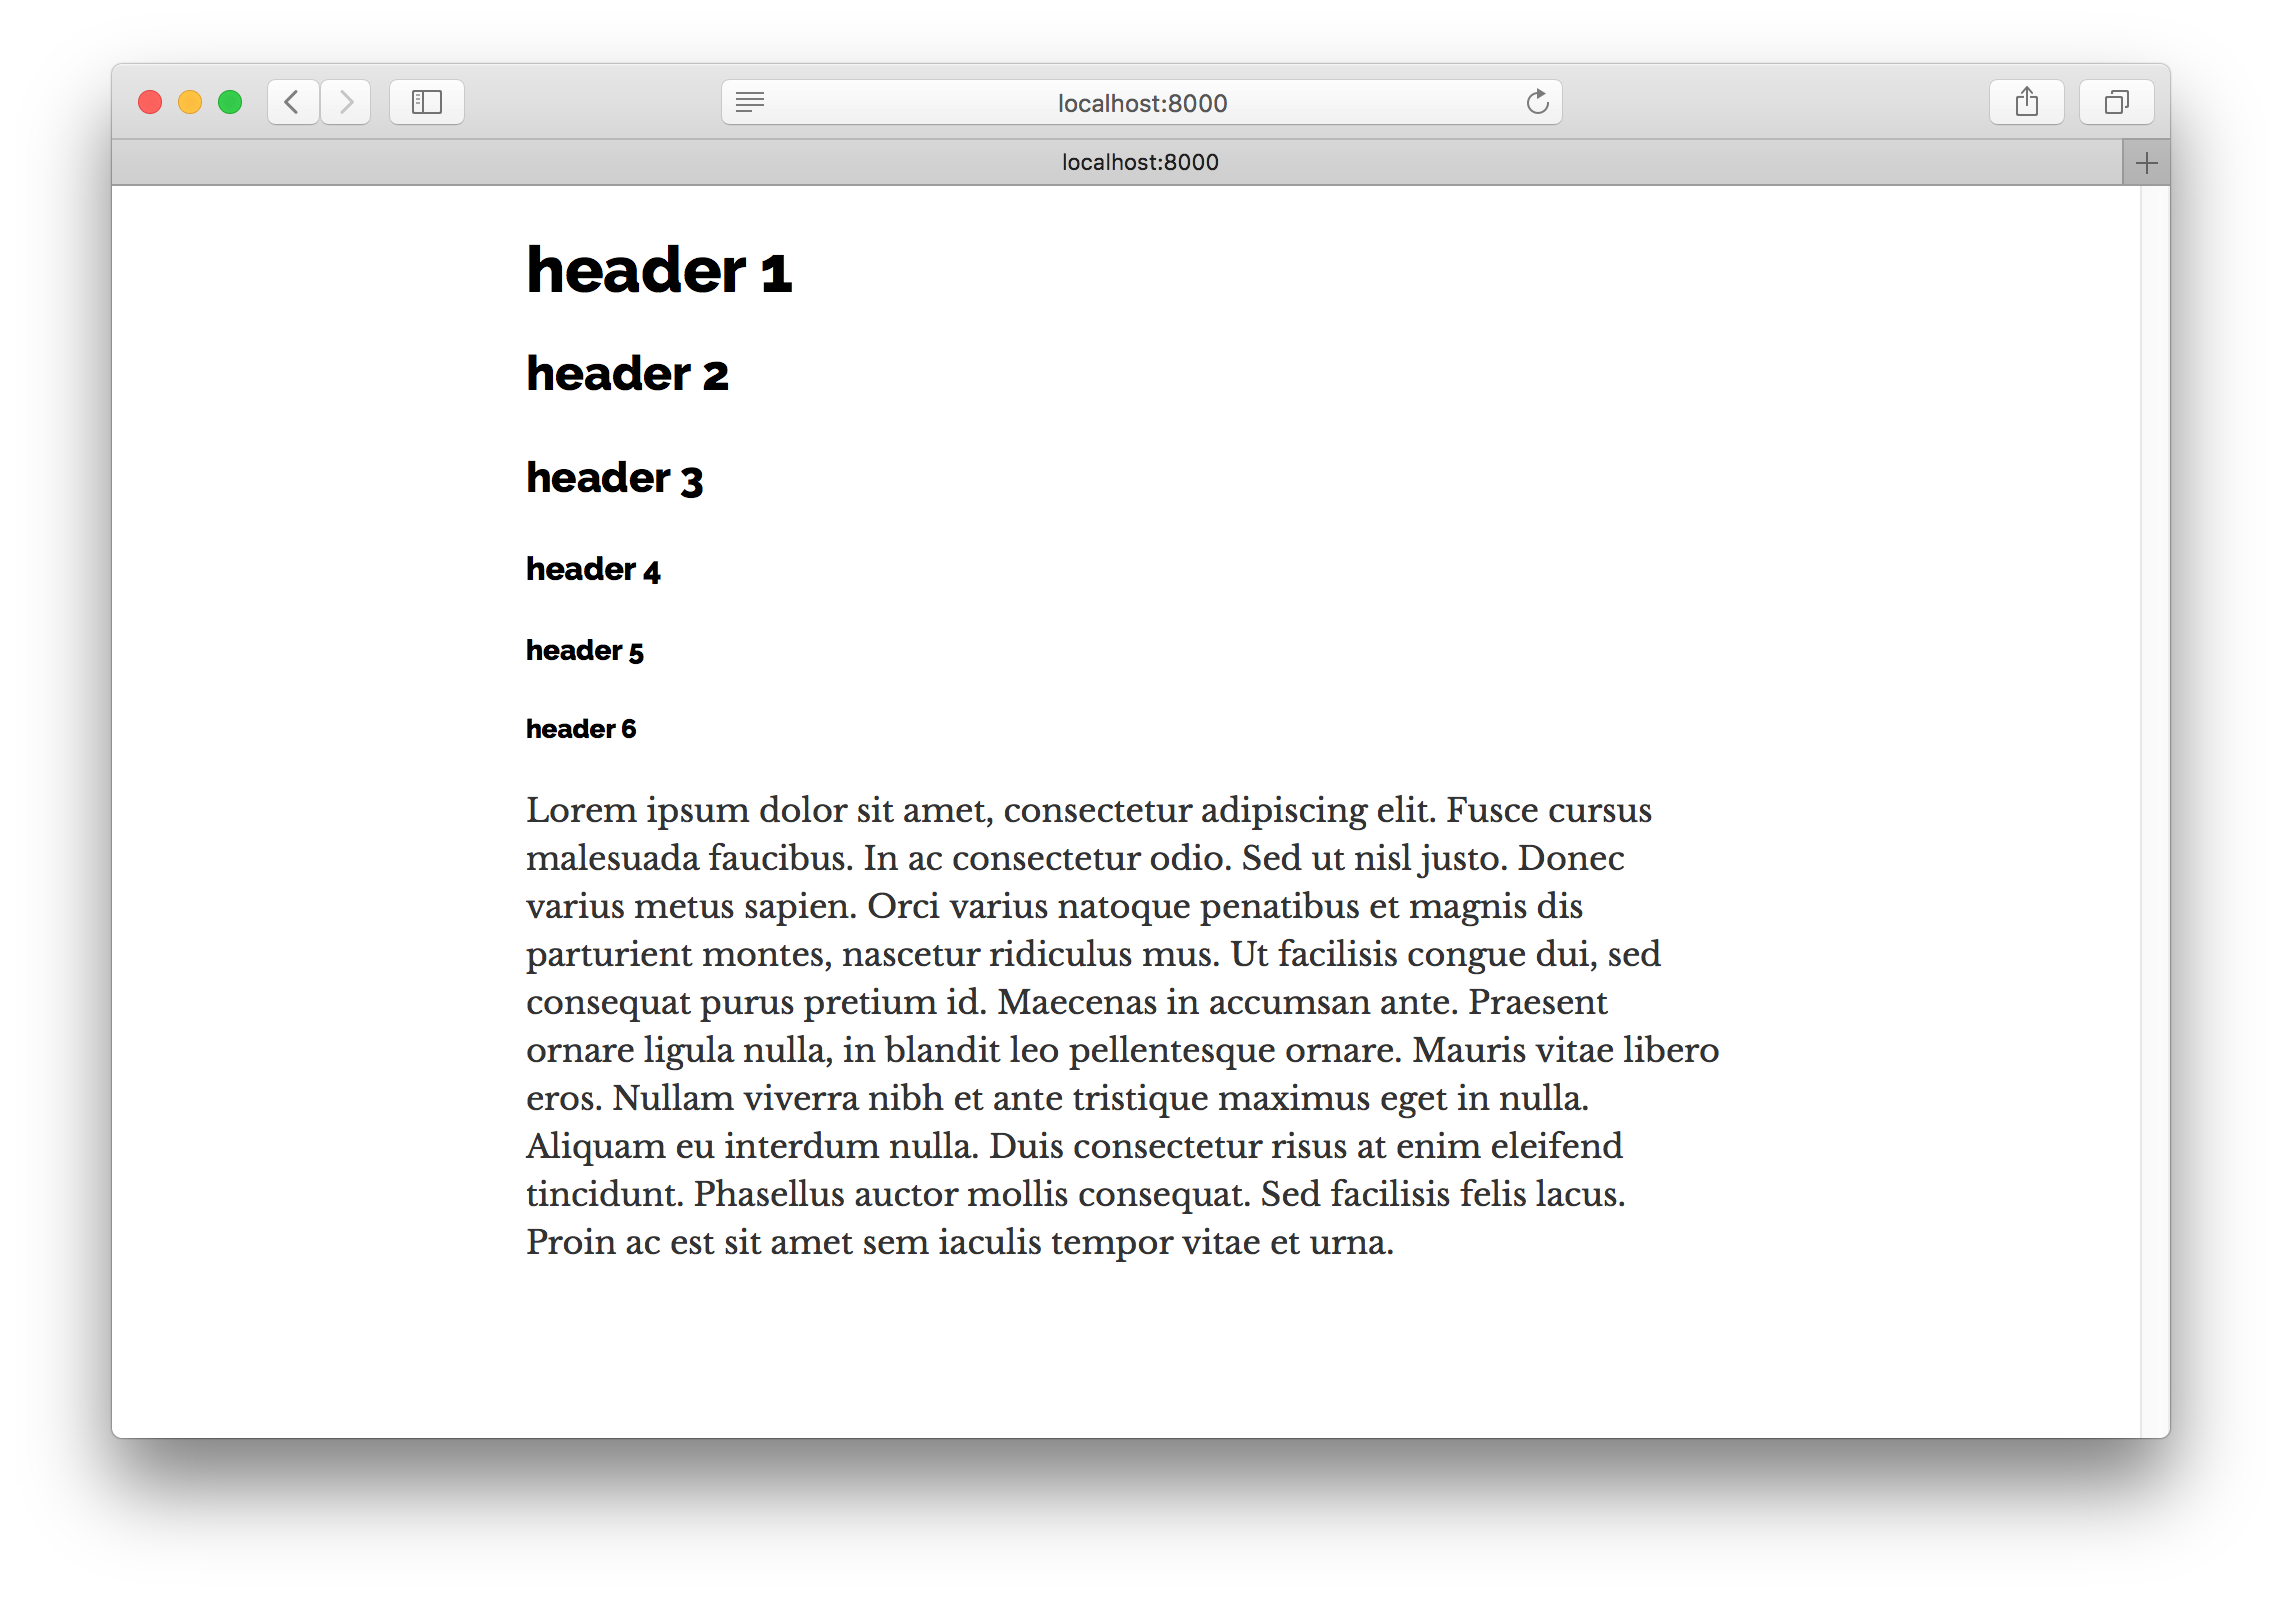
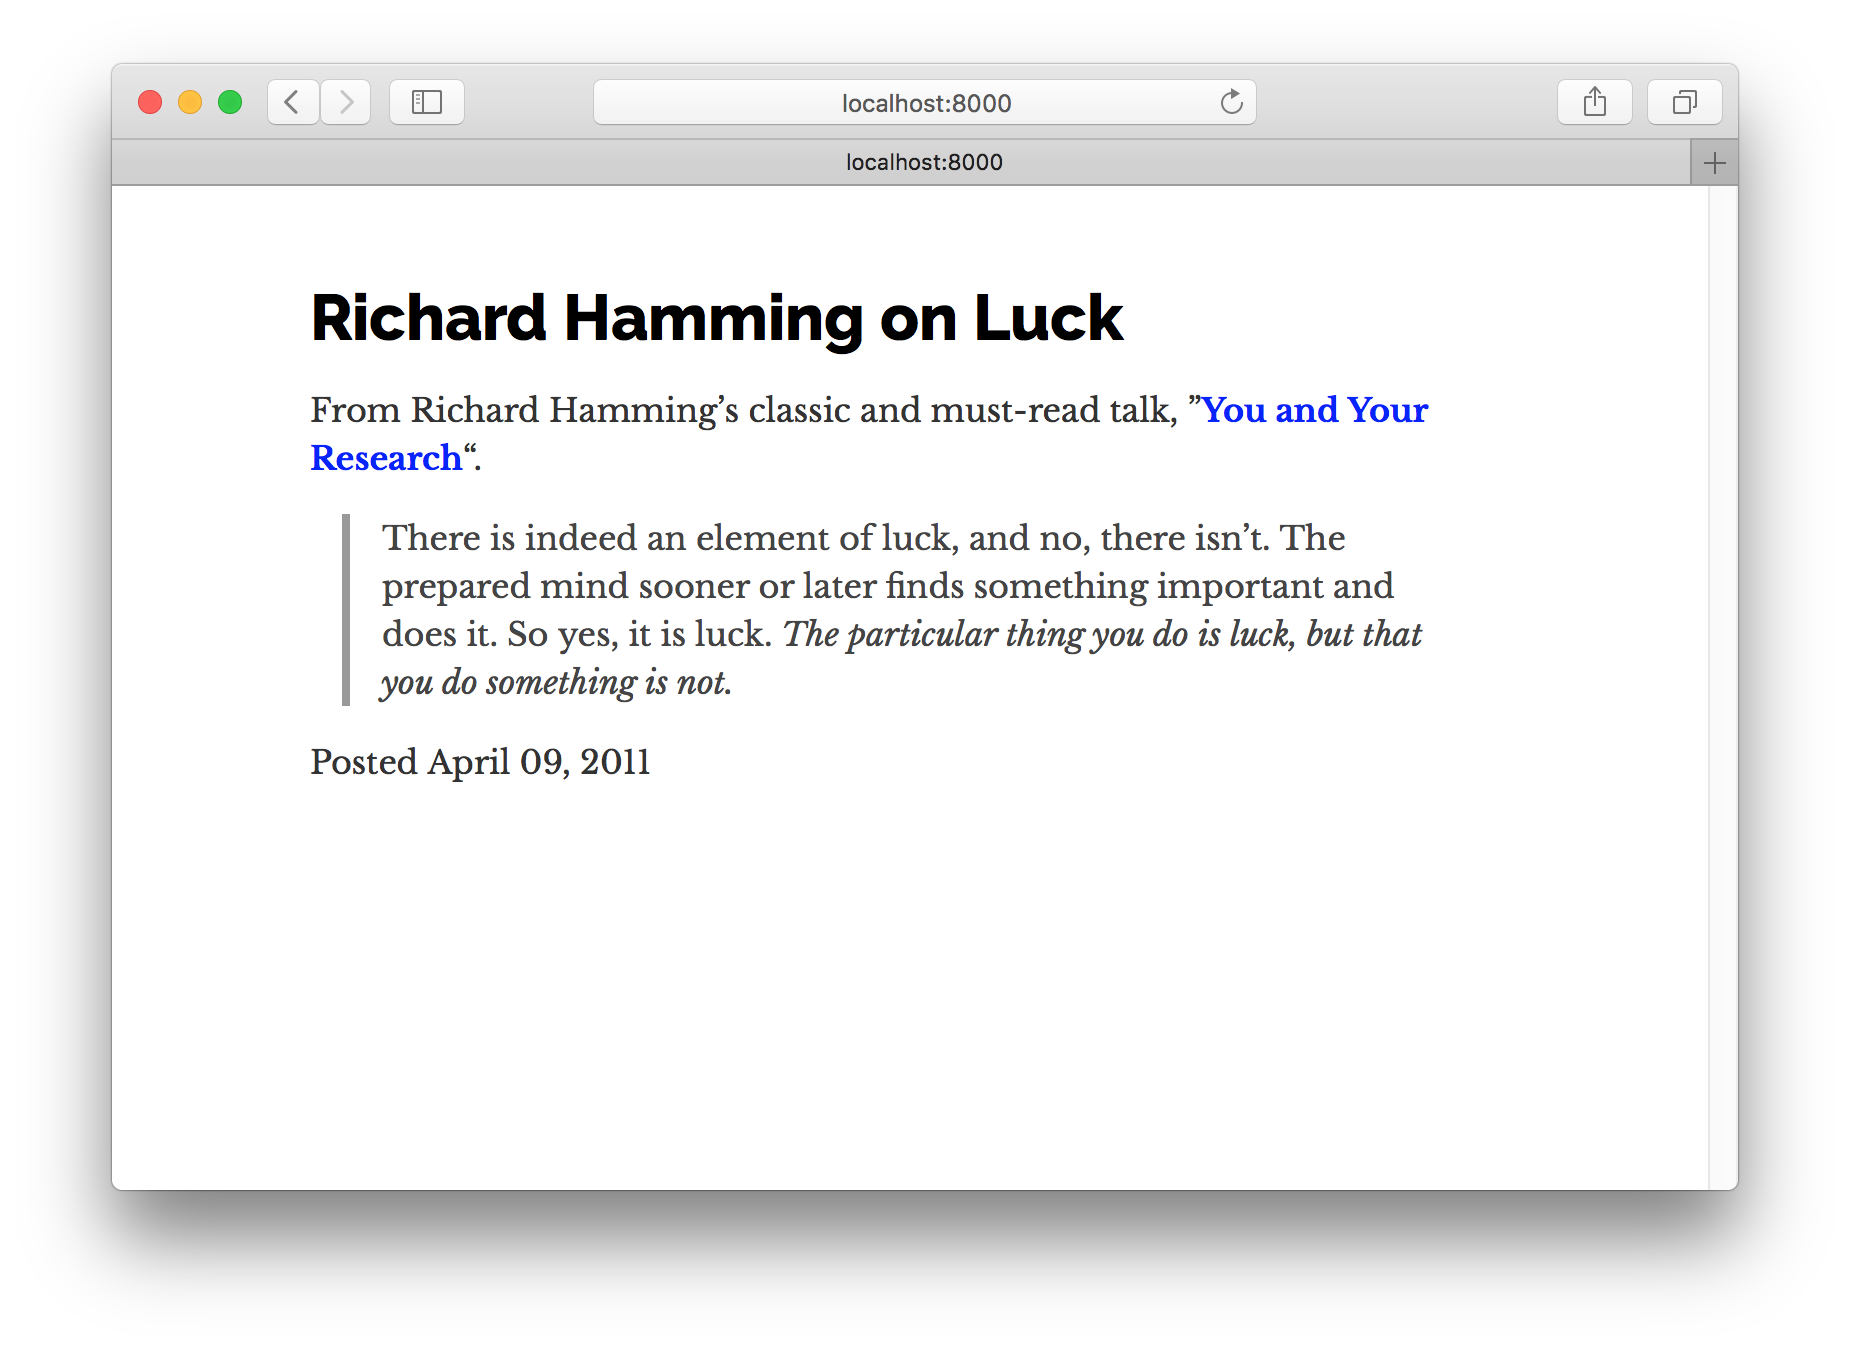
Updates to Tutorial 2 (#1683)

Changed region(s): [[0.1541, 0.2178, 0.7703, 0.8089], [0.0308, 0.0311, 0.9551, 0.9333]]

diff --git a/docs/tutorial/part-two/index.md b/docs/tutorial/part-two/index.md
@@ -127,30 +127,32 @@ import React from "react"
 
 export default () =>
   <div>
-    <h1>header 1</h1>
-    <h2>header 2</h2>
-    <h3>header 3</h3>
-    <h4>header 4</h4>
-    <h5>header 5</h5>
-    <h6>header 6</h6>
-    <p>
-      Lorem ipsum dolor sit amet, consectetur adipiscing elit. Fusce cursus
-      malesuada faucibus. In ac consectetur odio. Sed ut nisl justo. Donec
-      varius metus sapien. Orci varius natoque penatibus et magnis dis
-      parturient montes, nascetur ridiculus mus. Ut facilisis congue dui, sed
-      consequat purus pretium id. Maecenas in accumsan ante. Praesent ornare
-      ligula nulla, in blandit leo pellentesque ornare. Mauris vitae libero
-      eros. Nullam viverra nibh et ante tristique maximus eget in nulla. Aliquam
-      eu interdum nulla. Duis consectetur risus at enim eleifend tincidunt.
-      Phasellus auctor mollis consequat. Sed facilisis felis lacus. Proin ac est
-      sit amet sem iaculis tempor vitae et urna.
-    </p>
+    <h1>Richard Hamming on Luck</h1>
+    <div>
+      <p>
+        From Richard Hamming’s classic and must-read talk, ”<a href="http://www.cs.virginia.edu/~robins/YouAndYourResearch.html">
+          You and Your Research
+        </a>“.
+      </p>
+      <blockquote>
+        <p>
+          There is indeed an element of luck, and no, there isn’t. The prepared
+          mind sooner or later finds something important and does it. So yes, it
+          is luck.{" "}
+          <em>
+            The particular thing you do is luck, but that you do something is
+            not.
+          </em>
+        </p>
+      </blockquote>
+    </div>
+    <p>Posted April 09, 2011</p>
   </div>
 ```
 
 Your site should now look like this:
 
-![basic-typograpy](basic-typograpy.png)
+![typography-not-centered](typography-not-centered.png)
 
 Let's make a quick improvement. Many sites have a single column of text centered in the middle of the page. To create this, add the following styles to the `<div>` in `src/pages/index.js`.
 
@@ -158,29 +160,31 @@ Let's make a quick improvement. Many sites have a single column of text centered
 import React from "react"
 
 export default () =>
-  <div style={{ margin: '1.5rem auto', maxWidth: 600 }}>
-    <h1>header 1</h1>
-    <h2>header 2</h2>
-    <h3>header 3</h3>
-    <h4>header 4</h4>
-    <h5>header 5</h5>
-    <h6>header 6</h6>
-    <p>
-      Lorem ipsum dolor sit amet, consectetur adipiscing elit. Fusce cursus
-      malesuada faucibus. In ac consectetur odio. Sed ut nisl justo. Donec
-      varius metus sapien. Orci varius natoque penatibus et magnis dis
-      parturient montes, nascetur ridiculus mus. Ut facilisis congue dui, sed
-      consequat purus pretium id. Maecenas in accumsan ante. Praesent ornare
-      ligula nulla, in blandit leo pellentesque ornare. Mauris vitae libero
-      eros. Nullam viverra nibh et ante tristique maximus eget in nulla. Aliquam
-      eu interdum nulla. Duis consectetur risus at enim eleifend tincidunt.
-      Phasellus auctor mollis consequat. Sed facilisis felis lacus. Proin ac est
-      sit amet sem iaculis tempor vitae et urna.
-    </p>
+  <div style={{ margin: '3rem auto', maxWidth: 600 }}>
+    <h1>Richard Hamming on Luck</h1>
+    <div>
+      <p>
+        From Richard Hamming’s classic and must-read talk, ”<a href="http://www.cs.virginia.edu/~robins/YouAndYourResearch.html">
+          You and Your Research
+        </a>“.
+      </p>
+      <blockquote>
+        <p>
+          There is indeed an element of luck, and no, there isn’t. The prepared
+          mind sooner or later finds something important and does it. So yes, it
+          is luck.{" "}
+          <em>
+            The particular thing you do is luck, but that you do something is
+            not.
+          </em>
+        </p>
+      </blockquote>
+    </div>
+    <p>Posted April 09, 2011</p>
   </div>
 ```
 
-![basic-typography-centered](basic-typography-centered.png)
+![basic-typography-centered](typography-centered.png)
 
 Ah, this is starting to look nice!
 
@@ -221,7 +225,7 @@ There are many themes available for Typography.js. Let's try a couple. Run in yo
 npm install --save typography-theme-bootstrap typography-theme-lawton
 ```
 
-To use the Bootstrap theme, change your typography module code to:
+To use the Bootstrap theme, change your typography code to:
 
 ```javascript{2,4}
 import Typography from "typography"
@@ -252,7 +256,7 @@ Typography.js has more than 30 themes! Check them out at http://kyleamathews.git
 
 ## Component CSS
 
-Gatsby has a wealth of options available for styling components. Let's explore three very popular and production-ready options.
+Gatsby has a wealth of options available for styling components. Let's explore three very popular and production-ready options. We'll build a simple page three times with each styling option.
 
 Each is a variant on "CSS-in-JS" — which solves many of the problems with traditional CSS.
 
@@ -263,6 +267,8 @@ With CSS-in-JS you avoid all that as CSS selectors are scoped automatically to t
 For some background reading on CSS-in-JS, see [Christopher "vjeux" Chedeau's 2014 presentation that sparked this movement](https://speakerdeck.com/vjeux/react-css-in-js) as well as [Mark Dalgleish's more recent post "A Unified Styling Language"](https://medium.com/seek-blog/a-unified-styling-language-d0c208de2660).
 
 ### CSS Modules
+
+Let's explore first **CSS Modules**.
 
 Quoting from [the CSS Module homepage](https://github.com/css-modules/css-modules):
 
